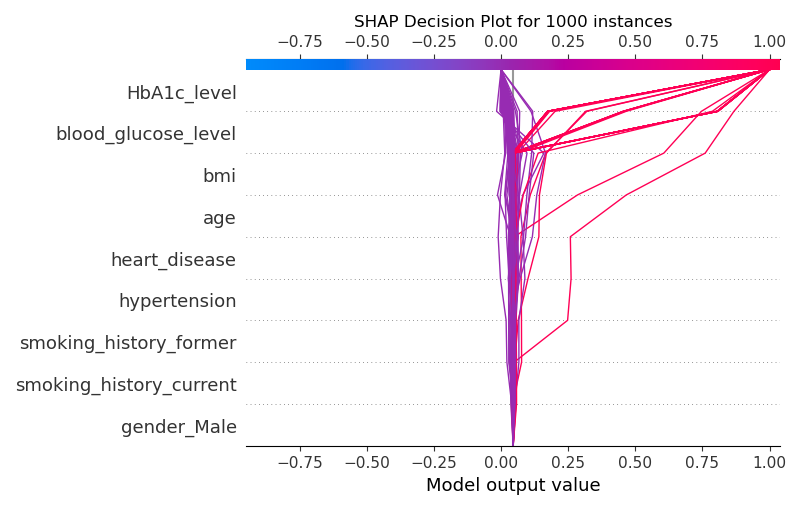
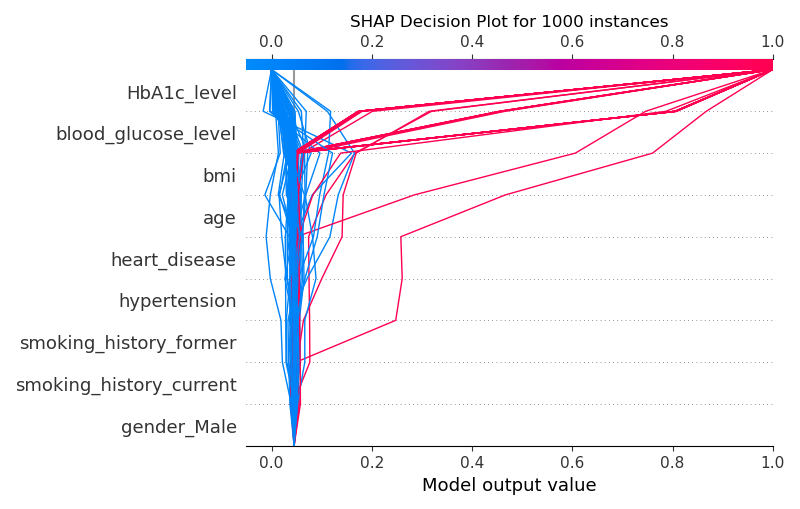
Kernel Shap in Main with plots

diff --git a/main.py b/main.py
@@ -49,6 +49,7 @@ df = df[(df['bmi'] >= lower_bound) & (df['bmi'] <= upper_bound)]
 # plot the boxplot for BMI
 sns.boxplot(df['bmi'])
 plt.title('Box plot of BMI (without outliers)')
+plt.savefig('boxplot_XGBC.png')
 plt.show()
 
 df['gender'] = df['gender'].astype('category')
@@ -82,6 +83,7 @@ print(f"the accuracy on test set {accuracy_score(y_test, y_test_repo)}")
 print()
 print(classification_report(y_test, y_test_repo))
 ConfusionMatrixDisplay(confusion_matrix(y_test, y_test_repo)).plot()
+plt.savefig('confmatrix_XGBC.png')
 plt.show()
 
 # Compute SHAP values and plot summary
@@ -102,7 +104,7 @@ plt.savefig('beeswarm_SHAP.png')
 plt.show()
 
 shap.decision_plot(explainer.expected_value, shap_values,
-                   feature_names=list(X_train.columns), show=False)
+                   feature_names=list(X_train.columns), xlim=(-0.05, 1), show=False)
 plt.title(f'SHAP Decision Plot for {samples} instances')
 plt.tight_layout()
 plt.savefig('dec_SHAP.png')
@@ -110,6 +112,7 @@ plt.show()
 
 shap.plots.bar(explanation, show=False)
 plt.title(f'SHAP Bar Plot for {samples} instances')
+plt.tight_layout()
 plt.savefig('bar_SHAP.png')
 plt.show()
 
